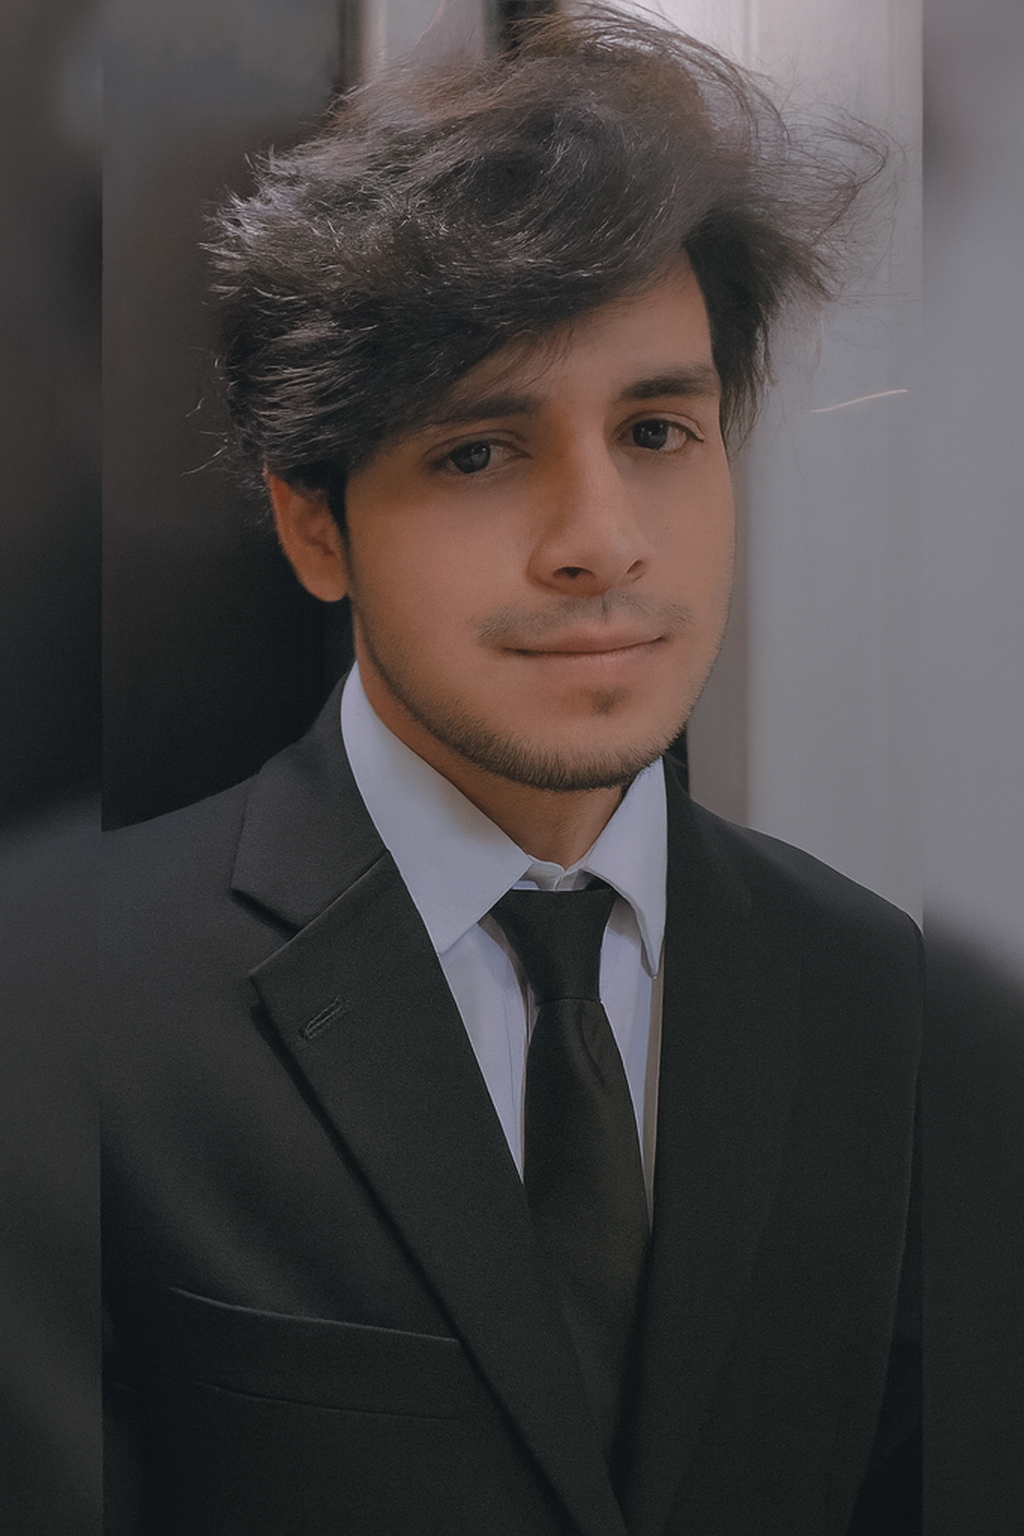
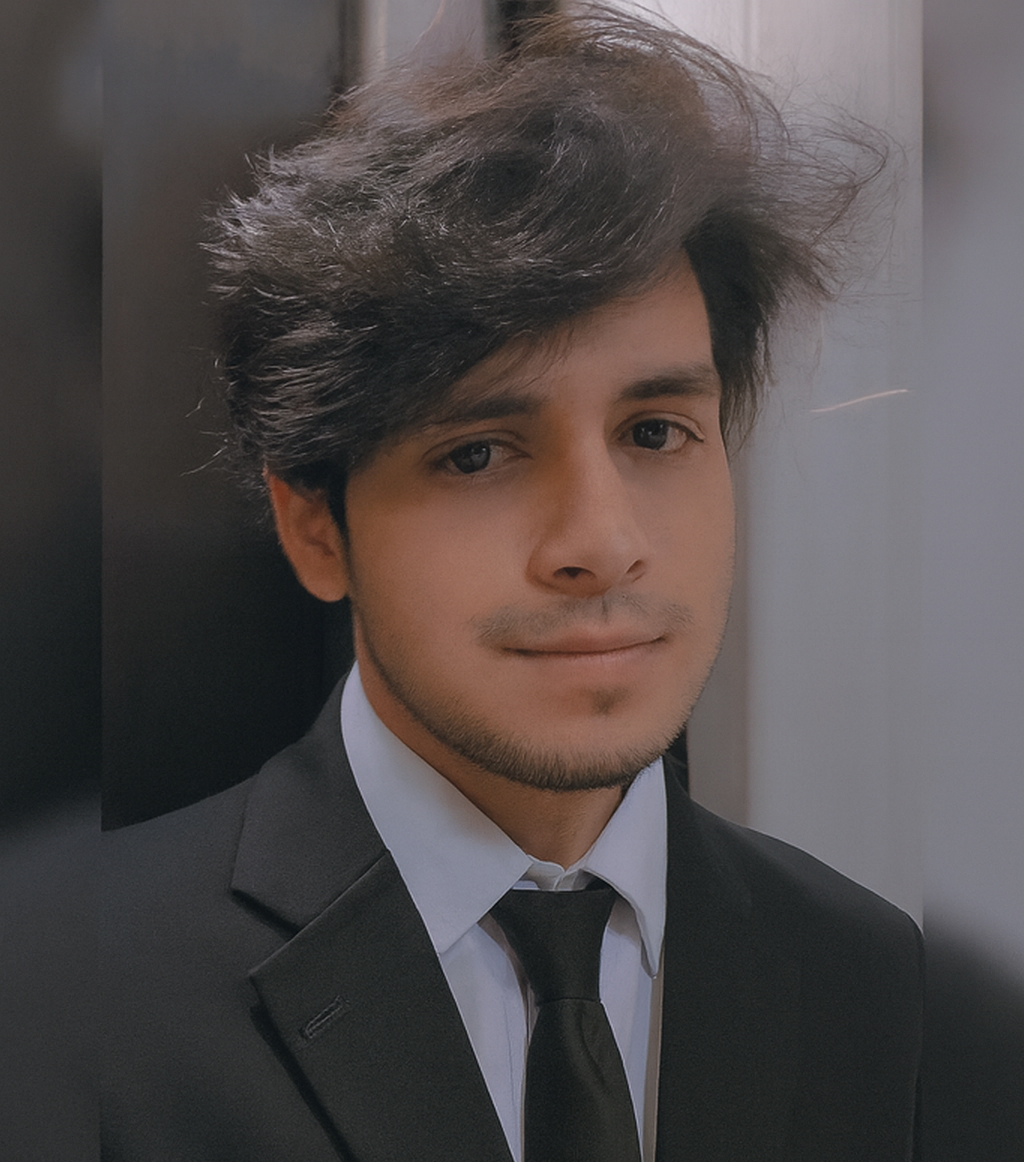
Foto integrantes
Se realiza pequeña actualización de foto.

diff --git a/integrantes.html b/integrantes.html
@@ -55,7 +55,7 @@
                 </div>
                 <div class="col-lg-4 col-md-6">
                     <div class="integrante-card card h-100 shadow-sm border-0 rounded-3 text-center">
-                        <img src="images/integrantes/camilo.jpg" alt="Foto de Camilo Moreno" class="card-img-top rounded-top">
+                        <img src="images/integrantes/camilo.png" alt="Foto de Camilo Moreno" class="card-img-top rounded-top">
                         <div class="card-body">
                             <h3 class="card-title fw-bold">Camilo Moreno</h3>
                             <p class="card-text text-muted">Product Owner - Backend Developer</p>
